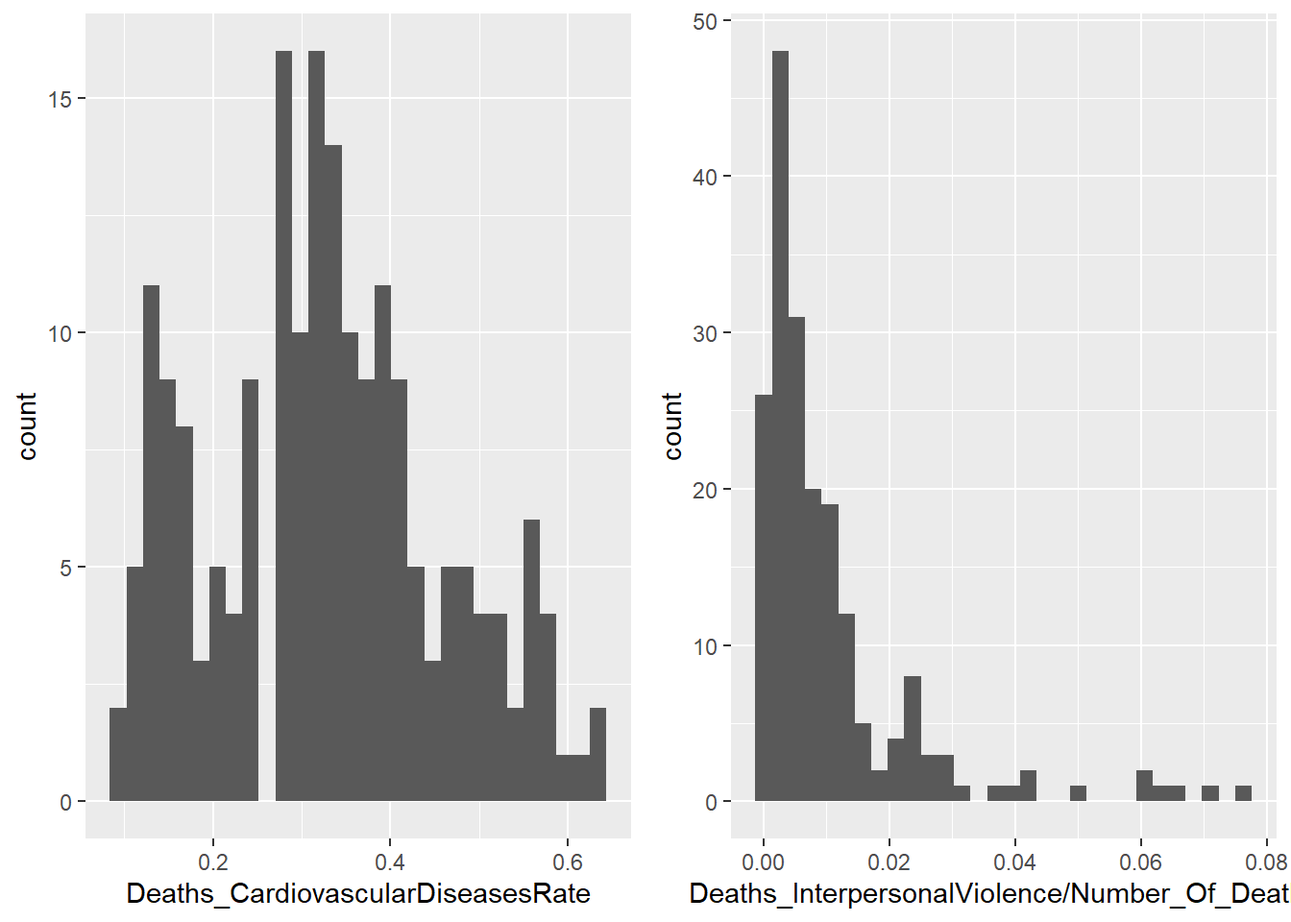
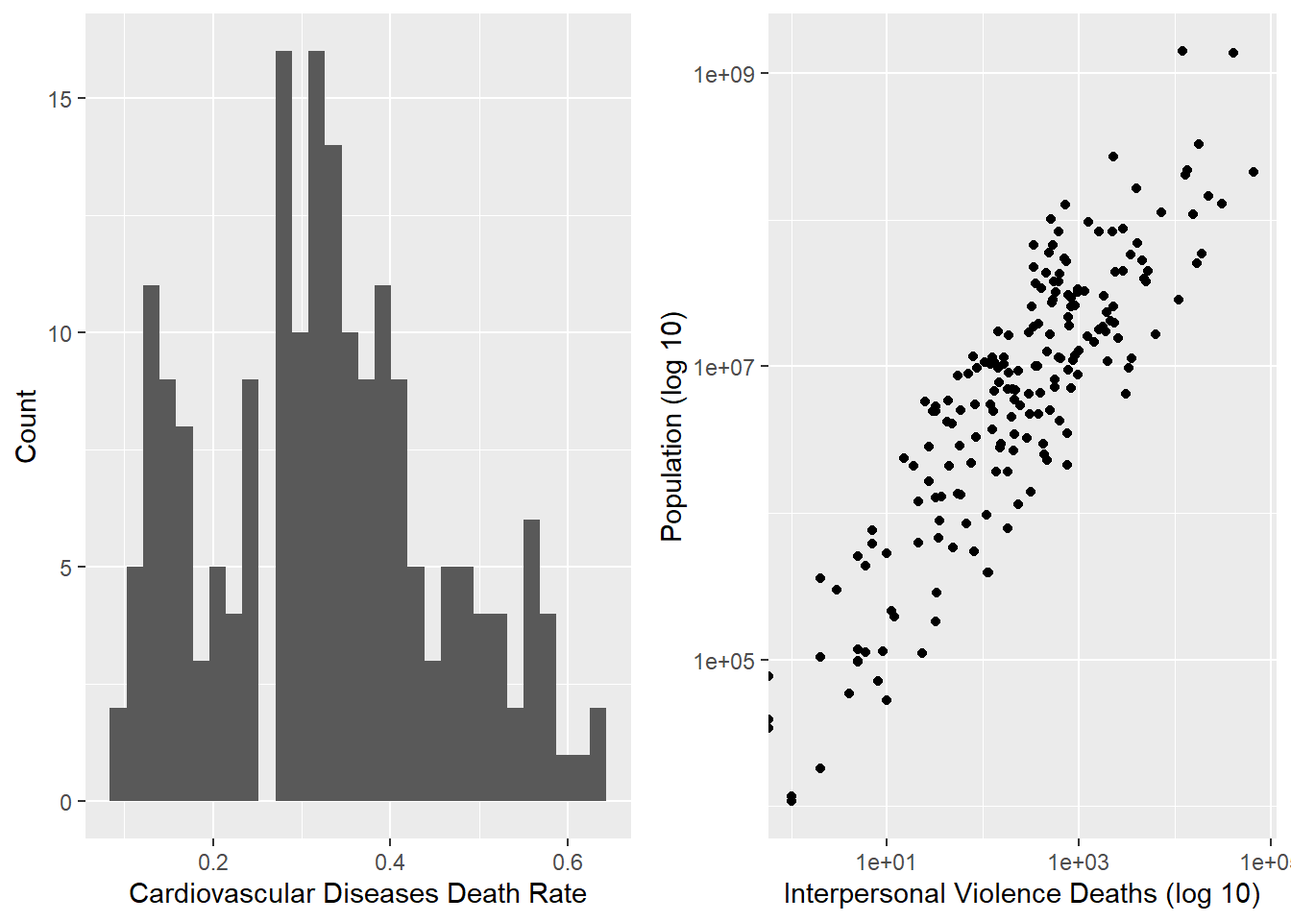
continue work on results section

diff --git a/Bootstrapping-Group-Report.html b/Bootstrapping-Group-Report.html
@@ -259,19 +259,189 @@ div.csl-indent {
 <p>We find that the average rate of deaths caused by cardiovascular diseases across the entire population is 0.3273, or 32.73%, with a standard deviation of 0.1309, or 13.09%.</p>
 <div class="cell">
 <div class="sourceCode cell-code" id="cb5"><pre class="sourceCode r code-with-copy"><code class="sourceCode r"><span id="cb5-1"><a href="#cb5-1" aria-hidden="true" tabindex="-1"></a><span class="co"># Create a histogram of the cardiovascular diseases death rate</span></span>
-<span id="cb5-2"><a href="#cb5-2" aria-hidden="true" tabindex="-1"></a>cardioHistogram <span class="ot">&lt;-</span> <span class="fu">ggplot</span>(boot_data, <span class="fu">aes</span>(<span class="at">x =</span> Deaths_CardiovascularDiseasesRate), <span class="at">xlab =</span> <span class="st">'Cardiovascular Diseases Death Rate'</span>) <span class="sc">+</span></span>
-<span id="cb5-3"><a href="#cb5-3" aria-hidden="true" tabindex="-1"></a>                   <span class="fu">geom_histogram</span>()</span>
-<span id="cb5-4"><a href="#cb5-4" aria-hidden="true" tabindex="-1"></a></span>
-<span id="cb5-5"><a href="#cb5-5" aria-hidden="true" tabindex="-1"></a><span class="co"># Create a histogram of the interpersonal violence death rate</span></span>
-<span id="cb5-6"><a href="#cb5-6" aria-hidden="true" tabindex="-1"></a>violenceHistogram <span class="ot">&lt;-</span> <span class="fu">ggplot</span>(boot_data, <span class="fu">aes</span>(<span class="at">x =</span> Deaths_InterpersonalViolence <span class="sc">/</span> Number_Of_Deaths)) <span class="sc">+</span></span>
-<span id="cb5-7"><a href="#cb5-7" aria-hidden="true" tabindex="-1"></a>                     <span class="fu">geom_histogram</span>()</span>
-<span id="cb5-8"><a href="#cb5-8" aria-hidden="true" tabindex="-1"></a></span>
-<span id="cb5-9"><a href="#cb5-9" aria-hidden="true" tabindex="-1"></a><span class="co"># Display histograms side by side</span></span>
-<span id="cb5-10"><a href="#cb5-10" aria-hidden="true" tabindex="-1"></a><span class="fu">grid.arrange</span>(cardioHistogram, violenceHistogram, <span class="at">ncol =</span> <span class="dv">2</span>)</span></code><button title="Copy to Clipboard" class="code-copy-button"><i class="bi"></i></button></pre></div>
+<span id="cb5-2"><a href="#cb5-2" aria-hidden="true" tabindex="-1"></a>cardioHistogram <span class="ot">&lt;-</span> <span class="fu">ggplot</span>(boot_data, <span class="fu">aes</span>(<span class="at">x =</span> Deaths_CardiovascularDiseasesRate)) <span class="sc">+</span></span>
+<span id="cb5-3"><a href="#cb5-3" aria-hidden="true" tabindex="-1"></a>                   <span class="fu">xlab</span>(<span class="st">'Cardiovascular Diseases Death Rate'</span>) <span class="sc">+</span></span>
+<span id="cb5-4"><a href="#cb5-4" aria-hidden="true" tabindex="-1"></a>                   <span class="fu">ylab</span>(<span class="st">'Count'</span>) <span class="sc">+</span></span>
+<span id="cb5-5"><a href="#cb5-5" aria-hidden="true" tabindex="-1"></a>                   <span class="fu">geom_histogram</span>()</span>
+<span id="cb5-6"><a href="#cb5-6" aria-hidden="true" tabindex="-1"></a></span>
+<span id="cb5-7"><a href="#cb5-7" aria-hidden="true" tabindex="-1"></a><span class="co"># Create a histogram of the interpersonal violence death rate</span></span>
+<span id="cb5-8"><a href="#cb5-8" aria-hidden="true" tabindex="-1"></a>violenceHistogram <span class="ot">&lt;-</span> <span class="fu">ggplot</span>(boot_data, <span class="fu">aes</span>(<span class="at">x =</span> Deaths_InterpersonalViolence, <span class="at">y =</span> Population)) <span class="sc">+</span></span>
+<span id="cb5-9"><a href="#cb5-9" aria-hidden="true" tabindex="-1"></a>                     <span class="fu">scale_x_log10</span>() <span class="sc">+</span></span>
+<span id="cb5-10"><a href="#cb5-10" aria-hidden="true" tabindex="-1"></a>                     <span class="fu">scale_y_log10</span>() <span class="sc">+</span></span>
+<span id="cb5-11"><a href="#cb5-11" aria-hidden="true" tabindex="-1"></a>                     <span class="fu">xlab</span>(<span class="st">'Interpersonal Violence Deaths (log 10)'</span>) <span class="sc">+</span></span>
+<span id="cb5-12"><a href="#cb5-12" aria-hidden="true" tabindex="-1"></a>                     <span class="fu">ylab</span>(<span class="st">'Population (log 10)'</span>) <span class="sc">+</span></span>
+<span id="cb5-13"><a href="#cb5-13" aria-hidden="true" tabindex="-1"></a>                     <span class="fu">geom_point</span>() </span>
+<span id="cb5-14"><a href="#cb5-14" aria-hidden="true" tabindex="-1"></a></span>
+<span id="cb5-15"><a href="#cb5-15" aria-hidden="true" tabindex="-1"></a><span class="co"># Display plots side by side</span></span>
+<span id="cb5-16"><a href="#cb5-16" aria-hidden="true" tabindex="-1"></a><span class="fu">grid.arrange</span>(cardioHistogram, violenceHistogram, <span class="at">ncol =</span> <span class="dv">2</span>)</span></code><button title="Copy to Clipboard" class="code-copy-button"><i class="bi"></i></button></pre></div>
 <div class="cell-output-display">
 <p><img src="Bootstrapping-Group-Report_files/figure-html/unnamed-chunk-10-1.png" class="img-fluid" width="672"></p>
 </div>
 </div>
+<p>Based on the histogram for the cardiovascular diseases death rate, it appears that the death rate for cardiovascular diseases may follow a normal distribution. The plot for interpersonal violence shows that there may be a relationship between the number of deaths caused by interpersonal violence and the population of the country.</p>
+</section>
+<section id="statistical-modeling" class="level3">
+<h3 class="anchored" data-anchor-id="statistical-modeling">Statistical Modeling</h3>
+<p>We will look at two applications of Bootstrapping, both using the Monte Carlo method (new samples are the exact size as the original sample). The first application is estimating the population mean and standard deviation of the cardiovascular diseases death rate. Second, we will create confidence intervals on regression parameters for a simple linear regression that estimates the interpersonal violence deaths on the population of a country.</p>
+<section id="estimating-population-mean-and-standard-deviation" class="level4">
+<h4 class="anchored" data-anchor-id="estimating-population-mean-and-standard-deviation">Estimating Population Mean and Standard Deviation</h4>
+<p>Here we are going to be estimating the population mean and standard deviation using the Bootstrap method. Since we currently have an entire population worth of data, we will take a sample of the population, <span class="math inline">\(n = 20\)</span> so we can perform Bootstrap re-sampling.</p>
+<div class="cell">
+<div class="sourceCode cell-code" id="cb6"><pre class="sourceCode r code-with-copy"><code class="sourceCode r"><span id="cb6-1"><a href="#cb6-1" aria-hidden="true" tabindex="-1"></a><span class="co"># Create our initial sample</span></span>
+<span id="cb6-2"><a href="#cb6-2" aria-hidden="true" tabindex="-1"></a>boot_initial_sample <span class="ot">&lt;-</span> <span class="fu">sample</span>(<span class="dv">1</span><span class="sc">:</span><span class="fu">nrow</span>(boot_data), <span class="dv">20</span>, <span class="at">replace =</span> <span class="cn">FALSE</span>)</span></code><button title="Copy to Clipboard" class="code-copy-button"><i class="bi"></i></button></pre></div>
+</div>
+<p>Now that we have our original sample we can use Bootstrap case re-sampling with the Monte Carlo method to find 1,000 new samples using replacement. For each new sample created we will save the mean and standard deviation.</p>
+<div class="cell">
+<div class="sourceCode cell-code" id="cb7"><pre class="sourceCode r code-with-copy"><code class="sourceCode r"><span id="cb7-1"><a href="#cb7-1" aria-hidden="true" tabindex="-1"></a><span class="co"># Create vectors to store new sample means and standard deviations</span></span>
+<span id="cb7-2"><a href="#cb7-2" aria-hidden="true" tabindex="-1"></a>boot_estimated_means <span class="ot">&lt;-</span> <span class="fu">rep</span>()</span>
+<span id="cb7-3"><a href="#cb7-3" aria-hidden="true" tabindex="-1"></a>boot_estimated_sds <span class="ot">&lt;-</span> <span class="fu">rep</span>()</span>
+<span id="cb7-4"><a href="#cb7-4" aria-hidden="true" tabindex="-1"></a><span class="co"># Create 1,000 new samples and save the means and standard deviations</span></span>
+<span id="cb7-5"><a href="#cb7-5" aria-hidden="true" tabindex="-1"></a><span class="cf">for</span> (x <span class="cf">in</span> <span class="dv">1</span><span class="sc">:</span><span class="dv">1000</span>) {</span>
+<span id="cb7-6"><a href="#cb7-6" aria-hidden="true" tabindex="-1"></a>  boot_new_sample <span class="ot">&lt;-</span> <span class="fu">sample</span>(boot_initial_sample, <span class="dv">20</span>, <span class="at">replace =</span> <span class="cn">TRUE</span>)</span>
+<span id="cb7-7"><a href="#cb7-7" aria-hidden="true" tabindex="-1"></a>  boot_estimated_means <span class="ot">&lt;-</span> <span class="fu">append</span>(boot_estimated_means,</span>
+<span id="cb7-8"><a href="#cb7-8" aria-hidden="true" tabindex="-1"></a>                                 <span class="fu">pull</span>(<span class="fu">summarize</span>(boot_data[boot_new_sample,], <span class="fu">mean</span>(Deaths_CardiovascularDiseasesRate))))</span>
+<span id="cb7-9"><a href="#cb7-9" aria-hidden="true" tabindex="-1"></a>  boot_estimated_sds <span class="ot">&lt;-</span> <span class="fu">append</span>(boot_estimated_sds, </span>
+<span id="cb7-10"><a href="#cb7-10" aria-hidden="true" tabindex="-1"></a>                               <span class="fu">pull</span>(<span class="fu">summarize</span>(boot_data[boot_new_sample,], <span class="fu">sd</span>(Deaths_CardiovascularDiseasesRate))))</span>
+<span id="cb7-11"><a href="#cb7-11" aria-hidden="true" tabindex="-1"></a>}</span></code><button title="Copy to Clipboard" class="code-copy-button"><i class="bi"></i></button></pre></div>
+</div>
+<div class="cell">
+<div class="sourceCode cell-code" id="cb8"><pre class="sourceCode r code-with-copy"><code class="sourceCode r"><span id="cb8-1"><a href="#cb8-1" aria-hidden="true" tabindex="-1"></a><span class="co"># Display some estimated means</span></span>
+<span id="cb8-2"><a href="#cb8-2" aria-hidden="true" tabindex="-1"></a><span class="fu">head</span>(boot_estimated_means)</span></code><button title="Copy to Clipboard" class="code-copy-button"><i class="bi"></i></button></pre></div>
+<div class="cell-output cell-output-stdout">
+<pre><code>[1] 0.3388597 0.3022130 0.2752518 0.2595038 0.3198134 0.2974137</code></pre>
+</div>
+<div class="sourceCode cell-code" id="cb10"><pre class="sourceCode r code-with-copy"><code class="sourceCode r"><span id="cb10-1"><a href="#cb10-1" aria-hidden="true" tabindex="-1"></a><span class="co"># Display some estimated standard deviations</span></span>
+<span id="cb10-2"><a href="#cb10-2" aria-hidden="true" tabindex="-1"></a><span class="fu">head</span>(boot_estimated_sds)</span></code><button title="Copy to Clipboard" class="code-copy-button"><i class="bi"></i></button></pre></div>
+<div class="cell-output cell-output-stdout">
+<pre><code>[1] 0.12860914 0.11434955 0.09691241 0.07863421 0.10462585 0.13974854</code></pre>
+</div>
+</div>
+<p>Now that we have the mean and standard deviations for all 1,000 samples creating using Bootstrapping, we can trim the top and bottom 2.5% to find our 95% confidence interval for the population mean and standard deviation.</p>
+<div class="cell">
+<div class="sourceCode cell-code" id="cb12"><pre class="sourceCode r code-with-copy"><code class="sourceCode r"><span id="cb12-1"><a href="#cb12-1" aria-hidden="true" tabindex="-1"></a><span class="co"># Sort the estimated means from smallest to largest</span></span>
+<span id="cb12-2"><a href="#cb12-2" aria-hidden="true" tabindex="-1"></a>boot_estimated_means <span class="ot">&lt;-</span> <span class="fu">sort</span>(boot_estimated_means)</span>
+<span id="cb12-3"><a href="#cb12-3" aria-hidden="true" tabindex="-1"></a><span class="co"># Sort the estimated standard deviations from smallest to largest</span></span>
+<span id="cb12-4"><a href="#cb12-4" aria-hidden="true" tabindex="-1"></a>boot_estimated_sds <span class="ot">&lt;-</span> <span class="fu">sort</span>(boot_estimated_sds)</span>
+<span id="cb12-5"><a href="#cb12-5" aria-hidden="true" tabindex="-1"></a><span class="co"># Trim the top and bottom 2.5%</span></span>
+<span id="cb12-6"><a href="#cb12-6" aria-hidden="true" tabindex="-1"></a>start <span class="ot">=</span> <span class="fu">length</span>(boot_estimated_means) <span class="sc">*</span> <span class="fl">0.025</span></span>
+<span id="cb12-7"><a href="#cb12-7" aria-hidden="true" tabindex="-1"></a>end <span class="ot">=</span> <span class="fu">length</span>(boot_estimated_means) <span class="sc">*</span> <span class="fl">0.975</span></span>
+<span id="cb12-8"><a href="#cb12-8" aria-hidden="true" tabindex="-1"></a>boot_estimated_means <span class="ot">&lt;-</span> boot_estimated_means[start<span class="sc">:</span>end]</span>
+<span id="cb12-9"><a href="#cb12-9" aria-hidden="true" tabindex="-1"></a>boot_estimated_sds <span class="ot">&lt;-</span> boot_estimated_sds[start<span class="sc">:</span>end]</span></code><button title="Copy to Clipboard" class="code-copy-button"><i class="bi"></i></button></pre></div>
+</div>
+<p>Now, by retrieving the first and last element in both the mean and standard deviation vectors we will find our 95% estimated population intervals. The 95% confidence interval for the population mean is [0.2569, 0.3562] or [25.69%, 35.62%]. The 95% confidence interval for the population standard deviation is [0.0764, 0.1529] or [7.64%, 15.29%].</p>
+<div class="cell">
+<div class="sourceCode cell-code" id="cb13"><pre class="sourceCode r code-with-copy"><code class="sourceCode r"><span id="cb13-1"><a href="#cb13-1" aria-hidden="true" tabindex="-1"></a><span class="co"># Display a histogram of the cardiovascular diseases deaths estimated population means rate</span></span>
+<span id="cb13-2"><a href="#cb13-2" aria-hidden="true" tabindex="-1"></a><span class="fu">ggplot</span>() <span class="sc">+</span></span>
+<span id="cb13-3"><a href="#cb13-3" aria-hidden="true" tabindex="-1"></a><span class="fu">geom_histogram</span>(<span class="fu">aes</span>(boot_estimated_means))</span></code><button title="Copy to Clipboard" class="code-copy-button"><i class="bi"></i></button></pre></div>
+<div class="cell-output-display">
+<p><img src="Bootstrapping-Group-Report_files/figure-html/unnamed-chunk-20-1.png" class="img-fluid" width="672"></p>
+</div>
+</div>
+</section>
+<section id="finding-variablility-of-regression-model" class="level4">
+<h4 class="anchored" data-anchor-id="finding-variablility-of-regression-model">Finding Variablility of Regression Model</h4>
+<p>The next experiment is finding the variability for a simple linear regression model. We will use the initial sample created in the first experiment as the initial sample for this experiment as well. For the model, we will see if the population of a country can be used to predict the deaths caused by interpersonal violence in 2019. Again, we will create 1,000 new samples. For each one of the new samples we will fit a simple linear regression model and save the coefficient and regression parameter.</p>
+<div class="cell">
+<div class="sourceCode cell-code" id="cb14"><pre class="sourceCode r code-with-copy"><code class="sourceCode r"><span id="cb14-1"><a href="#cb14-1" aria-hidden="true" tabindex="-1"></a><span class="co"># Create vectors to store new intercepts and regression parameters</span></span>
+<span id="cb14-2"><a href="#cb14-2" aria-hidden="true" tabindex="-1"></a>boot_estimated_intercepts <span class="ot">&lt;-</span> <span class="fu">rep</span>()</span>
+<span id="cb14-3"><a href="#cb14-3" aria-hidden="true" tabindex="-1"></a>boot_estimated_regressionparameters <span class="ot">&lt;-</span> <span class="fu">rep</span>()</span>
+<span id="cb14-4"><a href="#cb14-4" aria-hidden="true" tabindex="-1"></a><span class="co"># Create 1,000 new samples and save the means and standard deviations</span></span>
+<span id="cb14-5"><a href="#cb14-5" aria-hidden="true" tabindex="-1"></a><span class="cf">for</span> (x <span class="cf">in</span> <span class="dv">1</span><span class="sc">:</span><span class="dv">1000</span>) {</span>
+<span id="cb14-6"><a href="#cb14-6" aria-hidden="true" tabindex="-1"></a>  boot_new_reg_sample <span class="ot">&lt;-</span> <span class="fu">sample</span>(boot_initial_sample, <span class="dv">20</span>, <span class="at">replace =</span> <span class="cn">TRUE</span>)</span>
+<span id="cb14-7"><a href="#cb14-7" aria-hidden="true" tabindex="-1"></a>  boot_new_lm <span class="ot">&lt;-</span> <span class="fu">lm</span>(Deaths_InterpersonalViolence <span class="sc">~</span> Population,</span>
+<span id="cb14-8"><a href="#cb14-8" aria-hidden="true" tabindex="-1"></a>                    boot_data[boot_new_reg_sample,])</span>
+<span id="cb14-9"><a href="#cb14-9" aria-hidden="true" tabindex="-1"></a>  boot_estimated_intercepts <span class="ot">&lt;-</span> <span class="fu">append</span>(boot_estimated_intercepts, </span>
+<span id="cb14-10"><a href="#cb14-10" aria-hidden="true" tabindex="-1"></a>                                      boot_new_lm<span class="sc">$</span>coefficients[<span class="dv">1</span>])</span>
+<span id="cb14-11"><a href="#cb14-11" aria-hidden="true" tabindex="-1"></a>  boot_estimated_regressionparameters <span class="ot">&lt;-</span> <span class="fu">append</span>(boot_estimated_regressionparameters, </span>
+<span id="cb14-12"><a href="#cb14-12" aria-hidden="true" tabindex="-1"></a>                                                boot_new_lm<span class="sc">$</span>coefficients[<span class="dv">2</span>])</span>
+<span id="cb14-13"><a href="#cb14-13" aria-hidden="true" tabindex="-1"></a>}</span></code><button title="Copy to Clipboard" class="code-copy-button"><i class="bi"></i></button></pre></div>
+</div>
+<p>Now we can compare the full population model, sample model, and Bootstrapping model against eachother.</p>
+<div class="cell">
+<div class="sourceCode cell-code" id="cb15"><pre class="sourceCode r code-with-copy"><code class="sourceCode r"><span id="cb15-1"><a href="#cb15-1" aria-hidden="true" tabindex="-1"></a><span class="co"># Create population model</span></span>
+<span id="cb15-2"><a href="#cb15-2" aria-hidden="true" tabindex="-1"></a>pop_lm <span class="ot">&lt;-</span> <span class="fu">lm</span>(Deaths_InterpersonalViolence <span class="sc">~</span> Population, boot_data)</span>
+<span id="cb15-3"><a href="#cb15-3" aria-hidden="true" tabindex="-1"></a><span class="co"># Create initial sample model</span></span>
+<span id="cb15-4"><a href="#cb15-4" aria-hidden="true" tabindex="-1"></a>sample_lm <span class="ot">&lt;-</span> <span class="fu">lm</span>(Deaths_InterpersonalViolence <span class="sc">~</span> Population, boot_data[boot_initial_sample,])</span>
+<span id="cb15-5"><a href="#cb15-5" aria-hidden="true" tabindex="-1"></a><span class="co"># Find Bootstrapping average values</span></span>
+<span id="cb15-6"><a href="#cb15-6" aria-hidden="true" tabindex="-1"></a>boot_lm_intercept <span class="ot">&lt;-</span> <span class="fu">mean</span>(boot_estimated_intercepts) </span>
+<span id="cb15-7"><a href="#cb15-7" aria-hidden="true" tabindex="-1"></a>boot_lm_x1 <span class="ot">&lt;-</span> <span class="fu">mean</span>(boot_estimated_regressionparameters)</span></code><button title="Copy to Clipboard" class="code-copy-button"><i class="bi"></i></button></pre></div>
+</div>
+<table class="table">
+<colgroup>
+<col style="width: 22%">
+<col style="width: 26%">
+<col style="width: 29%">
+<col style="width: 22%">
+</colgroup>
+<thead>
+<tr class="header">
+<th></th>
+<th>Population</th>
+<th>Sample</th>
+<th>Bootstrap</th>
+</tr>
+</thead>
+<tbody>
+<tr class="odd">
+<td>(Intercept)</td>
+<td>1183.7272946</td>
+<td>269.1481736</td>
+<td>262.523111</td>
+</tr>
+<tr class="even">
+<td>x</td>
+<td>2.4147731^{-5}</td>
+<td>1.7653203^{-5}</td>
+<td>1.8019908^{-5}</td>
+</tr>
+</tbody>
+</table>
+<div class="cell">
+<div class="sourceCode cell-code" id="cb16"><pre class="sourceCode r code-with-copy"><code class="sourceCode r"><span id="cb16-1"><a href="#cb16-1" aria-hidden="true" tabindex="-1"></a><span class="co"># Plot the data, population model, sample model, and final Bootstrap model (average of all models)</span></span>
+<span id="cb16-2"><a href="#cb16-2" aria-hidden="true" tabindex="-1"></a>final_plot <span class="ot">&lt;-</span> <span class="fu">ggplot</span>(<span class="fu">aes</span>(<span class="at">x =</span> Population, <span class="at">y =</span> Deaths_InterpersonalViolence), <span class="at">data =</span> boot_data) <span class="sc">+</span></span>
+<span id="cb16-3"><a href="#cb16-3" aria-hidden="true" tabindex="-1"></a>              <span class="fu">geom_point</span>() <span class="sc">+</span></span>
+<span id="cb16-4"><a href="#cb16-4" aria-hidden="true" tabindex="-1"></a>              <span class="fu">geom_abline</span>(<span class="at">intercept =</span> <span class="fu">coef</span>(pop_lm)[<span class="dv">1</span>], <span class="at">slope =</span> <span class="fu">coef</span>(pop_lm)[<span class="dv">2</span>], <span class="at">color=</span> <span class="st">'blue'</span>) <span class="sc">+</span></span>
+<span id="cb16-5"><a href="#cb16-5" aria-hidden="true" tabindex="-1"></a>              <span class="fu">geom_abline</span>(<span class="at">intercept =</span> <span class="fu">coef</span>(sample_lm)[<span class="dv">1</span>], <span class="at">slope =</span> <span class="fu">coef</span>(sample_lm)[<span class="dv">2</span>], <span class="at">color =</span> <span class="st">'green'</span>) <span class="sc">+</span></span>
+<span id="cb16-6"><a href="#cb16-6" aria-hidden="true" tabindex="-1"></a>              <span class="fu">geom_abline</span>(<span class="at">intercept =</span> <span class="fu">mean</span>(boot_estimated_intercepts), <span class="at">slope =</span> <span class="fu">mean</span>(boot_estimated_regressionparameters), <span class="at">color =</span> <span class="st">'red'</span>) <span class="sc">+</span></span>
+<span id="cb16-7"><a href="#cb16-7" aria-hidden="true" tabindex="-1"></a>              <span class="fu">xlab</span>(<span class="st">'Population'</span>) <span class="sc">+</span> </span>
+<span id="cb16-8"><a href="#cb16-8" aria-hidden="true" tabindex="-1"></a>              <span class="fu">ylab</span>(<span class="st">'Interpersonal Violence Deaths'</span>) <span class="sc">+</span></span>
+<span id="cb16-9"><a href="#cb16-9" aria-hidden="true" tabindex="-1"></a>              <span class="fu">ggtitle</span>(<span class="st">'Regression Comparison'</span>) <span class="sc">+</span></span>
+<span id="cb16-10"><a href="#cb16-10" aria-hidden="true" tabindex="-1"></a>              <span class="fu">labs</span>(<span class="at">color =</span> <span class="st">"Model"</span>)</span>
+<span id="cb16-11"><a href="#cb16-11" aria-hidden="true" tabindex="-1"></a><span class="co"># Add all Bootstrap models</span></span>
+<span id="cb16-12"><a href="#cb16-12" aria-hidden="true" tabindex="-1"></a><span class="cf">for</span> (x <span class="cf">in</span> <span class="dv">1</span><span class="sc">:</span><span class="fu">length</span>(boot_estimated_intercepts)) {</span>
+<span id="cb16-13"><a href="#cb16-13" aria-hidden="true" tabindex="-1"></a>  final_plot <span class="ot">&lt;-</span> final_plot <span class="sc">+</span> <span class="fu">geom_abline</span>(<span class="at">intercept =</span> boot_estimated_intercepts[x], <span class="at">slope =</span> boot_estimated_regressionparameters[x], <span class="at">alpha =</span> <span class="fl">0.025</span>)</span>
+<span id="cb16-14"><a href="#cb16-14" aria-hidden="true" tabindex="-1"></a>}</span>
+<span id="cb16-15"><a href="#cb16-15" aria-hidden="true" tabindex="-1"></a><span class="co"># Display final plot</span></span>
+<span id="cb16-16"><a href="#cb16-16" aria-hidden="true" tabindex="-1"></a>final_plot</span></code><button title="Copy to Clipboard" class="code-copy-button"><i class="bi"></i></button></pre></div>
+<div class="cell-output-display">
+<p><img src="Bootstrapping-Group-Report_files/figure-html/unnamed-chunk-26-1.png" class="img-fluid" width="672"></p>
+</div>
+</div>
+<div class="cell">
+<div class="sourceCode cell-code" id="cb17"><pre class="sourceCode r code-with-copy"><code class="sourceCode r"><span id="cb17-1"><a href="#cb17-1" aria-hidden="true" tabindex="-1"></a><span class="co"># Create a histogram of the intercepts found from the Bootstrap method</span></span>
+<span id="cb17-2"><a href="#cb17-2" aria-hidden="true" tabindex="-1"></a>interceptHistogram <span class="ot">&lt;-</span> <span class="fu">ggplot</span>() <span class="sc">+</span> </span>
+<span id="cb17-3"><a href="#cb17-3" aria-hidden="true" tabindex="-1"></a>                      <span class="fu">aes</span>(boot_estimated_intercepts) <span class="sc">+</span></span>
+<span id="cb17-4"><a href="#cb17-4" aria-hidden="true" tabindex="-1"></a>                      <span class="fu">geom_histogram</span>() <span class="sc">+</span></span>
+<span id="cb17-5"><a href="#cb17-5" aria-hidden="true" tabindex="-1"></a>                      <span class="fu">ylab</span>(<span class="st">"Count"</span>) <span class="sc">+</span></span>
+<span id="cb17-6"><a href="#cb17-6" aria-hidden="true" tabindex="-1"></a>                      <span class="fu">xlab</span>(<span class="st">"Bootstrap Intercepts"</span>)</span>
+<span id="cb17-7"><a href="#cb17-7" aria-hidden="true" tabindex="-1"></a></span>
+<span id="cb17-8"><a href="#cb17-8" aria-hidden="true" tabindex="-1"></a><span class="co"># Create a histogram of the regression parameter found from the Bootstrap method</span></span>
+<span id="cb17-9"><a href="#cb17-9" aria-hidden="true" tabindex="-1"></a>parameterHistogram <span class="ot">&lt;-</span> <span class="fu">ggplot</span>() <span class="sc">+</span> </span>
+<span id="cb17-10"><a href="#cb17-10" aria-hidden="true" tabindex="-1"></a>                      <span class="fu">aes</span>(boot_estimated_regressionparameters) <span class="sc">+</span></span>
+<span id="cb17-11"><a href="#cb17-11" aria-hidden="true" tabindex="-1"></a>                      <span class="fu">geom_histogram</span>() <span class="sc">+</span></span>
+<span id="cb17-12"><a href="#cb17-12" aria-hidden="true" tabindex="-1"></a>                      <span class="fu">ylab</span>(<span class="st">"Count"</span>) <span class="sc">+</span></span>
+<span id="cb17-13"><a href="#cb17-13" aria-hidden="true" tabindex="-1"></a>                      <span class="fu">xlab</span>(<span class="st">"Bootstrap Regression Parameters"</span>)</span>
+<span id="cb17-14"><a href="#cb17-14" aria-hidden="true" tabindex="-1"></a></span>
+<span id="cb17-15"><a href="#cb17-15" aria-hidden="true" tabindex="-1"></a><span class="co"># Display plots side by side</span></span>
+<span id="cb17-16"><a href="#cb17-16" aria-hidden="true" tabindex="-1"></a><span class="fu">grid.arrange</span>(interceptHistogram, parameterHistogram, <span class="at">ncol =</span> <span class="dv">2</span>)</span></code><button title="Copy to Clipboard" class="code-copy-button"><i class="bi"></i></button></pre></div>
+<div class="cell-output-display">
+<p><img src="Bootstrapping-Group-Report_files/figure-html/unnamed-chunk-28-1.png" class="img-fluid" width="672"></p>
+</div>
+</div>
+</section>
+</section>
+<section id="conclusion" class="level3">
+<h3 class="anchored" data-anchor-id="conclusion">Conclusion</h3>
 </section>
 </section>
 <section id="sec-references" class="level2 unnumbered">
